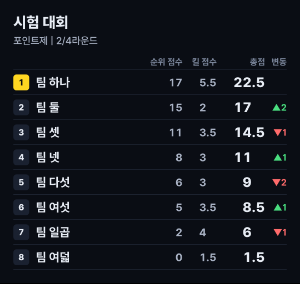
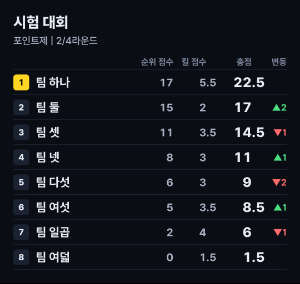
docs: 대회 결과 시안의 F1 머리글을 정수 자리 위로 맞춤
Claude-Session: https://claude.ai/code/session_01HiX2KytF4HuKLSHrGnt5D9

diff --git a/mock/result-message/notes.md b/mock/result-message/notes.md
@@ -30,7 +30,7 @@
 - 바뀌는 함수
   - `notice_view`: 다음 라운드 줄과 금지 실험체 줄을 뺍니다.
   - `round_view`: 이미지와 다음 라운드 줄, 금지 실험체 줄만 둡니다. 링크 버튼을 뺍니다.
-  - `post_round`: 지난 라운드 메시지에서 다음 라운드 줄을 빼는 수정은 지금처럼 둡니다.
+  - `post_round`: 시안은 지난 라운드 메시지에서 다음 라운드 줄을 뺀다고 놓았습니다. 지시문의 "마지막 라운드 메시지에만 표시"에서 짐작한 것이고 봇 코드로 확인하지 않았습니다. 지금 이 수정을 하지 않는다면 새로 넣어야 하고, 넣지 않으면 지난 라운드 메시지마다 다음 라운드 줄이 남습니다. C안도 같습니다.
   - `tick`: 개요 메시지에서 진행 상황 줄만 고칩니다.
 - 재시작 뒤: 링크 버튼만 있어 그대로 동작합니다.
 - 2라운드부터 개요 메시지가 화면 밖으로 밀려, 순위표 버튼과 CSV 안내 줄은 채널을 위로 올려야 보입니다.
@@ -55,10 +55,10 @@
 
 | 안 | 킬 점수 열 | 총점 열 | 정수 자리 |
 | --- | --- | --- | --- |
-| F1 | 495 | 604 | 열마다 한 위치. 순위 점수 열도 438 한 위치 |
+| F1 | 495 | 604 | 열마다 한 위치. 순위 점수 열도 416 한 위치 |
 | F2 | 496.3, 496.5 | 604.9, 605.4 | 0.5px 안에서 맞음 |
 | F3 | 496.5, 520 | 605.4, 636 | 정수 값만 23~31px 오른쪽으로 밀림 |
 
-- F1은 열이 하나 늘어 팀 이름 칸이 720 기준 352px에서 262px로 줄어듭니다. 긴 팀 이름은 더 일찍 말줄임됩니다.
+- F1은 열이 하나 늘고 킬 점수 열도 머리글이 정수 자리 위에 오도록 넓혀, 팀 이름 칸이 720 기준 352px에서 240px로 줄어듭니다. 긴 팀 이름은 더 일찍 말줄임됩니다.
 - F1은 Pretendard의 tabular-nums를 씁니다. 같은 크기에서 "1111"과 "0000"의 폭이 같은 것을 확인했습니다.
 - 300px 사본에서 글자 크기는 팀 이름 약 12px, 킬 점수 약 11px입니다.
